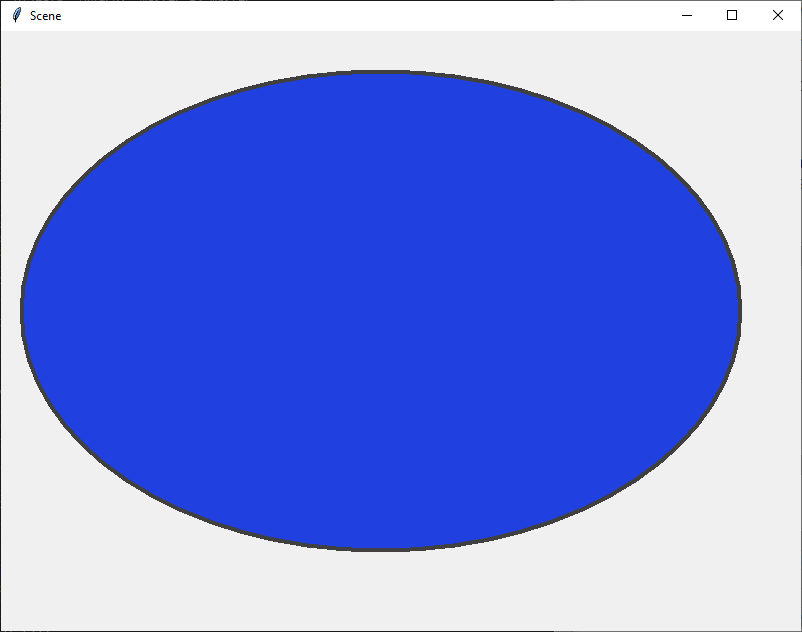
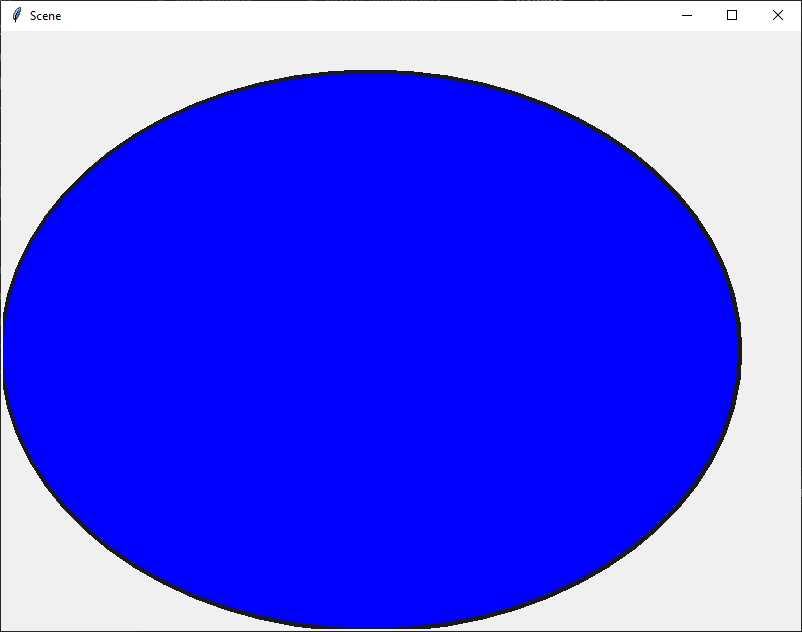
Clarify assignments for lesson 5.

diff --git a/docs/lesson05/prove.html b/docs/lesson05/prove.html
@@ -57,6 +57,9 @@
         <li><div>Reference for <a target="_blank"
         href="https://effbot.org/tkinterbook/canvas.htm">tkinter
         Canvas</a> widget</div></li>
+
+        <li><div><a target="_blank" href="colors.png">Chart of named
+        colors</a> in tkinter</div></li>
     </ul>
 
     <h2>Assignment</h2>
@@ -97,9 +100,11 @@ def main():
 
     # Create a Scene window. Creating an object
     # calls the __init__ function in the class.
-    Scene()
+    width = 800
+    height = 600
+    Scene(width, height)
 
-    root.geometry("800x600")
+    root.geometry(f"{width}x{height}")
     root.mainloop()
 
 
@@ -108,7 +113,7 @@ class Scene(Frame):
     to draw a somewhat realistic outdoor scene in the frame.
     """
 
-    def __init__(self):
+    def __init__(self, width, height):
         """Initialize a Scene object."""
 
         # Call __init__ in the parent class.
@@ -122,7 +127,7 @@ class Scene(Frame):
         canvas.pack(fill=BOTH, expand=1)
 
         # Call the draw_scene function.
-        draw_scene(canvas, 0, 0, 799, 599)
+        draw_scene(canvas, 0, 0, width-1, height-1)
 
 
 def draw_scene(canvas, scene_left, scene_top, scene_right, scene_bottom):
@@ -135,16 +140,16 @@ def draw_scene(canvas, scene_left, scene_top, scene_right, scene_bottom):
     param scene_right - right side of the region
     param scene_bottom - bottom of the region
 
-    The width and height of the region can be calculated like this:
+    If needed, the width and height of the
+    region can be calculated like this:
     scene_width = scene_right - scene_left + 1
     scene_height = scene_bottom - scene_top + 1
     """
-    canvas.create_oval(scene_left + 20, scene_top + 40,
-            scene_right - 60, scene_bottom - 80,
-            outline="#404040", width=4, fill="#2040e0")
-
     # Call your functions here, such as draw_sky, draw_ground,
     # draw_snowman, draw_tree, draw_shrub, etc.
+    canvas.create_oval(scene_left, scene_top + 40,
+            scene_right - 60, scene_bottom,
+            outline="gray10", width=4, fill="blue")
 
 
 # Define more functions here, like draw_sky, draw_ground,
@@ -161,16 +166,16 @@ main()</pre></div>
 
     <p><img src="oval.png" alt="A blue oval drawn by a Python program"></p>
 
-    <p>This oval was drawn by the code at lines 52 - 54. Delete lines
-    52 - 54 and begin writing your program. The purpose of this
-    assignment is to prove that you can write and call functions.
-    Therefore, your program must be divided into functions such as
-    <code>draw_sky</code>, <code>draw_cloud</code>,
+    <p>This oval was drawn by the code at lines&nbsp;57&ndash;59. Delete
+    lines&nbsp;57&ndash;59 and begin writing your program. The purpose
+    of this assignment is to prove that you can write and call
+    functions. Therefore, your program must be divided into functions
+    such as <code>draw_sky</code>, <code>draw_cloud</code>,
     <code>draw_ground</code>, <code>draw_bird</code>,
     <code>draw_grass_blade</code>, and <code>draw_insect</code>. The
     header for the <code>draw_scene</code> function, which is shown on
-    line 38 in the example code above, is a good example for the headers
-    of all your draw_* functions. For example, if you write a
+    line&nbsp;40 in the example code above, is a good example for the
+    headers of all your draw_* functions. For example, if you write a
     <code>draw_grass_blade</code> function in your program, you should
     write its header like this:</p>
 

diff --git a/docs/lesson05/teach.html b/docs/lesson05/teach.html
@@ -82,9 +82,11 @@
         <li><div>Calculates age, BMI, and BMR.</div></li>
     </ol>
 
-    <p>Use the following design to write your program:</p>
-<div class="pre"><pre class="python">
-# Import necessary modules.
+    <p>Use the following design to write your program. Write code for
+    each function that contains the keyword <code>pass</code>. Then
+    delete the keyword <code>pass</code>.</p>
+
+<div class="pre"><pre class="python"># Import necessary modules.
 import csv
 import math
 from datetime import date, datetime
@@ -92,19 +94,19 @@ from datetime import date, datetime
 
 def main():
     # Print this header:
-    # Gender,Age (years) Weight (kg),Height (cm),BMI,BMR
+    # Gender,Age (years),Weight (kg),Height (cm),BMI,BMR
 
     # Open the fitness.csv file for reading.
 
-    # Use the csv module to get a reader object.
+        # Use the csv module to get a reader object.
 
-    # Process each row in the csv file by doing the following:
-        # 1. Call the compute_age, kg_from_lb, cm_from_in,
-        #   body_mass_index, and basal_metabolic_rate
-        #   functions as necessary.
-        # 2. Print the gender, age in years, weight in
-        #   kilograms, height in centimeters, body mass
-        #   index, and basal metabolic rate.
+        # Process each row in the csv file by doing the following:
+            # 1. Call the compute_age, kg_from_lb, cm_from_in,
+            #    body_mass_index, and basal_metabolic_rate
+            #    functions as necessary.
+            # 2. Print the gender, age in years, weight in
+            #    kilograms, height in centimeters, body mass
+            #    index, and basal metabolic rate.
     pass
 
 
@@ -122,12 +124,16 @@ def compute_age(birth):
 
 
 def kg_from_lb(lb):
-    """Convert a mass in pounds to kilograms."""
+    """Convert a mass in US pounds to kilograms.
+    param lb: a mass in US pounds
+    """
     pass
 
 
 def cm_from_in(inch):
-    """Convert a length in inches to centimeters."""
+    """Convert a length in inches to centimeters.
+    param inch: a length in inches
+    """
     pass
 
 
@@ -186,15 +192,12 @@ def basal_metabolic_rate(gender, weight, height, age):
         you think would make your program better, easier for the user,
         more elegant, or more fun. Be creative.</div></li>
 
-        <li><div>Write a document string for each of these four
-        functions: <code>kg_from_lb</code>, <code>cm_from_in</code>,
-        <code>body_mass_index</code>, <code>basal_metabolic_rate</code>.
-        Use the document string in the compute_age function as an
-        example.</div></li>
-
         <li><div>Write comments above the lines of code in
         <code>main</code> that were difficult for you to
         understand.</div></li>
+
+        <li><div>Modify your program to print the height values in
+        meters instead of centimeters.</div></li>
     </ol>
 
     <h2>Sample Run</h2>

diff --git a/docs/lesson06/prove.html b/docs/lesson06/prove.html
@@ -73,6 +73,9 @@
         <li><div>Reference for <a target="_blank"
         href="https://effbot.org/tkinterbook/canvas.htm">tkinter
         Canvas</a> widget</div></li>
+
+        <li><div><a target="_blank" href="colors.png">Chart of named
+        colors</a> in tkinter</div></li>
     </ul>
 
     <h2>Testing Procedure</h2>

diff --git a/docs/lesson05/colors.py b/docs/lesson05/colors.py
@@ -1,0 +1,103 @@
+# Program modified from
+# http://stackoverflow.com/questions/4969543/colour-chart-for-tkinter-and-tix-using-python
+#
+from tkinter import Tk, E, W, Label
+
+COLOR_NAMES = [
+    'snow', 'ghost white', 'white smoke', 'gainsboro', 'floral white', 'old lace',
+    'linen', 'antique white', 'papaya whip', 'blanched almond', 'bisque', 'peach puff',
+    'navajo white', 'lemon chiffon', 'mint cream', 'azure', 'alice blue', 'lavender',
+    'lavender blush', 'misty rose', 'dark slate gray', 'dim gray', 'slate gray',
+    'light slate gray', 'gray', 'light grey', 'midnight blue', 'navy', 'cornflower blue', 'dark slate blue',
+    'slate blue', 'medium slate blue', 'light slate blue', 'medium blue', 'royal blue',  'blue',
+    'dodger blue', 'deep sky blue', 'sky blue', 'light sky blue', 'steel blue', 'light steel blue',
+    'light blue', 'powder blue', 'pale turquoise', 'dark turquoise', 'medium turquoise', 'turquoise',
+    'cyan', 'light cyan', 'cadet blue', 'medium aquamarine', 'aquamarine', 'dark green', 'dark olive green',
+    'dark sea green', 'sea green', 'medium sea green', 'light sea green', 'pale green', 'spring green',
+    'lawn green', 'medium spring green', 'green yellow', 'lime green', 'yellow green',
+    'forest green', 'olive drab', 'dark khaki', 'khaki', 'pale goldenrod', 'light goldenrod yellow',
+    'light yellow', 'yellow', 'gold', 'light goldenrod', 'goldenrod', 'dark goldenrod', 'rosy brown',
+    'indian red', 'saddle brown', 'sandy brown',
+    'dark salmon', 'salmon', 'light salmon', 'orange', 'dark orange',
+    'coral', 'light coral', 'tomato', 'orange red', 'red', 'hot pink', 'deep pink', 'pink', 'light pink',
+    'pale violet red', 'maroon', 'medium violet red', 'violet red',
+    'medium orchid', 'dark orchid', 'dark violet', 'blue violet', 'purple', 'medium purple',
+    'thistle', 'snow2', 'snow3',
+    'snow4', 'seashell2', 'seashell3', 'seashell4', 'AntiqueWhite1', 'AntiqueWhite2',
+    'AntiqueWhite3', 'AntiqueWhite4', 'bisque2', 'bisque3', 'bisque4', 'PeachPuff2',
+    'PeachPuff3', 'PeachPuff4', 'NavajoWhite2', 'NavajoWhite3', 'NavajoWhite4',
+    'LemonChiffon2', 'LemonChiffon3', 'LemonChiffon4', 'cornsilk2', 'cornsilk3',
+    'cornsilk4', 'ivory2', 'ivory3', 'ivory4', 'honeydew2', 'honeydew3', 'honeydew4',
+    'LavenderBlush2', 'LavenderBlush3', 'LavenderBlush4', 'MistyRose2', 'MistyRose3',
+    'MistyRose4', 'azure2', 'azure3', 'azure4', 'SlateBlue1', 'SlateBlue2', 'SlateBlue3',
+    'SlateBlue4', 'RoyalBlue1', 'RoyalBlue2', 'RoyalBlue3', 'RoyalBlue4', 'blue2', 'blue4',
+    'DodgerBlue2', 'DodgerBlue3', 'DodgerBlue4', 'SteelBlue1', 'SteelBlue2',
+    'SteelBlue3', 'SteelBlue4', 'DeepSkyBlue2', 'DeepSkyBlue3', 'DeepSkyBlue4',
+    'SkyBlue1', 'SkyBlue2', 'SkyBlue3', 'SkyBlue4', 'LightSkyBlue1', 'LightSkyBlue2',
+    'LightSkyBlue3', 'LightSkyBlue4', 'SlateGray1', 'SlateGray2', 'SlateGray3',
+    'SlateGray4', 'LightSteelBlue1', 'LightSteelBlue2', 'LightSteelBlue3',
+    'LightSteelBlue4', 'LightBlue1', 'LightBlue2', 'LightBlue3', 'LightBlue4',
+    'LightCyan2', 'LightCyan3', 'LightCyan4', 'PaleTurquoise1', 'PaleTurquoise2',
+    'PaleTurquoise3', 'PaleTurquoise4', 'CadetBlue1', 'CadetBlue2', 'CadetBlue3',
+    'CadetBlue4', 'turquoise1', 'turquoise2', 'turquoise3', 'turquoise4', 'cyan2', 'cyan3',
+    'cyan4', 'DarkSlateGray1', 'DarkSlateGray2', 'DarkSlateGray3', 'DarkSlateGray4',
+    'aquamarine2', 'aquamarine4', 'DarkSeaGreen1', 'DarkSeaGreen2', 'DarkSeaGreen3',
+    'DarkSeaGreen4', 'SeaGreen1', 'SeaGreen2', 'SeaGreen3', 'PaleGreen1', 'PaleGreen2',
+    'PaleGreen3', 'PaleGreen4', 'SpringGreen2', 'SpringGreen3', 'SpringGreen4',
+    'green2', 'green3', 'green4', 'chartreuse2', 'chartreuse3', 'chartreuse4',
+    'OliveDrab1', 'OliveDrab2', 'OliveDrab4', 'DarkOliveGreen1', 'DarkOliveGreen2',
+    'DarkOliveGreen3', 'DarkOliveGreen4', 'khaki1', 'khaki2', 'khaki3', 'khaki4',
+    'LightGoldenrod1', 'LightGoldenrod2', 'LightGoldenrod3', 'LightGoldenrod4',
+    'LightYellow2', 'LightYellow3', 'LightYellow4', 'yellow2', 'yellow3', 'yellow4',
+    'gold2', 'gold3', 'gold4', 'goldenrod1', 'goldenrod2', 'goldenrod3', 'goldenrod4',
+    'DarkGoldenrod1', 'DarkGoldenrod2', 'DarkGoldenrod3', 'DarkGoldenrod4',
+    'RosyBrown1', 'RosyBrown2', 'RosyBrown3', 'RosyBrown4', 'IndianRed1', 'IndianRed2',
+    'IndianRed3', 'IndianRed4', 'sienna1', 'sienna2', 'sienna3', 'sienna4', 'burlywood1',
+    'burlywood2', 'burlywood3', 'burlywood4', 'wheat1', 'wheat2', 'wheat3', 'wheat4', 'tan1',
+    'tan2', 'tan4', 'chocolate1', 'chocolate2', 'chocolate3', 'firebrick1', 'firebrick2',
+    'firebrick3', 'firebrick4', 'brown1', 'brown2', 'brown3', 'brown4', 'salmon1', 'salmon2',
+    'salmon3', 'salmon4', 'LightSalmon2', 'LightSalmon3', 'LightSalmon4', 'orange2',
+    'orange3', 'orange4', 'DarkOrange1', 'DarkOrange2', 'DarkOrange3', 'DarkOrange4',
+    'coral1', 'coral2', 'coral3', 'coral4', 'tomato2', 'tomato3', 'tomato4', 'OrangeRed2',
+    'OrangeRed3', 'OrangeRed4', 'red2', 'red3', 'red4', 'DeepPink2', 'DeepPink3', 'DeepPink4',
+    'HotPink1', 'HotPink2', 'HotPink3', 'HotPink4', 'pink1', 'pink2', 'pink3', 'pink4',
+    'LightPink1', 'LightPink2', 'LightPink3', 'LightPink4', 'PaleVioletRed1',
+    'PaleVioletRed2', 'PaleVioletRed3', 'PaleVioletRed4', 'maroon1', 'maroon2',
+    'maroon3', 'maroon4', 'VioletRed1', 'VioletRed2', 'VioletRed3', 'VioletRed4',
+    'magenta2', 'magenta3', 'magenta4', 'orchid1', 'orchid2', 'orchid3', 'orchid4', 'plum1',
+    'plum2', 'plum3', 'plum4', 'MediumOrchid1', 'MediumOrchid2', 'MediumOrchid3',
+    'MediumOrchid4', 'DarkOrchid1', 'DarkOrchid2', 'DarkOrchid3', 'DarkOrchid4',
+    'purple1', 'purple2', 'purple3', 'purple4', 'MediumPurple1', 'MediumPurple2',
+    'MediumPurple3', 'MediumPurple4', 'thistle1', 'thistle2', 'thistle3', 'thistle4',
+    'gray1', 'gray2', 'gray3', 'gray4', 'gray5', 'gray6', 'gray7', 'gray8', 'gray9', 'gray10',
+    'gray11', 'gray12', 'gray13', 'gray14', 'gray15', 'gray16', 'gray17', 'gray18', 'gray19',
+    'gray20', 'gray21', 'gray22', 'gray23', 'gray24', 'gray25', 'gray26', 'gray27', 'gray28',
+    'gray29', 'gray30', 'gray31', 'gray32', 'gray33', 'gray34', 'gray35', 'gray36', 'gray37',
+    'gray38', 'gray39', 'gray40', 'gray42', 'gray43', 'gray44', 'gray45', 'gray46', 'gray47',
+    'gray48', 'gray49', 'gray50', 'gray51', 'gray52', 'gray53', 'gray54', 'gray55', 'gray56',
+    'gray57', 'gray58', 'gray59', 'gray60', 'gray61', 'gray62', 'gray63', 'gray64', 'gray65',
+    'gray66', 'gray67', 'gray68', 'gray69', 'gray70', 'gray71', 'gray72', 'gray73', 'gray74',
+    'gray75', 'gray76', 'gray77', 'gray78', 'gray79', 'gray80', 'gray81', 'gray82', 'gray83',
+    'gray84', 'gray85', 'gray86', 'gray87', 'gray88', 'gray89', 'gray90', 'gray91', 'gray92',
+    'gray93', 'gray94', 'gray95', 'gray97', 'gray98', 'gray99']
+
+MAX_ROWS = 37
+FONT_SIZE = 10  # (pixels)
+
+root = Tk()
+root.title("Named Color Chart")
+row = 0
+col = 0
+for color_name in COLOR_NAMES:
+    rgb = root.winfo_rgb(color_name)
+    intens = rgb[0] * 0.2989 + rgb[1] * 0.587 + rgb[2] * 0.1141
+    fgcolor = 'black' if intens > 32767 else 'white'
+    elem = Label(root, text=color_name,
+            bg=color_name, fg=fgcolor, font=(None, -FONT_SIZE))
+    elem.grid(row=row, column=col, sticky=E+W)
+    row += 1
+    if (row == MAX_ROWS):
+        row = 0
+        col += 1
+
+root.mainloop()

diff --git a/docs/lesson05/teach_solution.py b/docs/lesson05/teach_solution.py
@@ -22,33 +22,32 @@ def main():
         # Process each row in the CSV file.
         for row in reader:
 
-                # From the current row of the CSV file,
-                # retrieve a person's gender from column 0.
-                gender = row[0]
+            # From the current row of the CSV file,
+            # retrieve a person's gender from column 0.
+            gender = row[0]
 
-                # From the current row of the CSV file, retrieve a
-                # person's birthdate as a string. Call the compute_age
-                # function which convert the string to a date and then
-                # compute and return a person's age in years.
-                years = compute_age(row[1])
+            # From the current row of the CSV file, retrieve a
+            # person's birthdate as a string. Call the compute_age
+            # function which convert the string to a date and then
+            # compute and return a person's age in years.
+            years = compute_age(row[1])
 
-                # From the current row of the CSV file, retrieve a
-                # person's weight in pounds and height in inches. Then
-                # convert the person's weight from pounds to kilograms
-                # and their height from inches to centimeters.
-                pounds = float(row[2])
-                inches = float(row[3])
-                kg = round(kg_from_lb(pounds), 2)
-                cm = round(cm_from_in(inches), 1)
+            # From the current row of the CSV file, retrieve a
+            # person's weight in pounds and height in inches. Then
+            # convert the person's weight from pounds to kilograms
+            # and their height from inches to centimeters.
+            pounds = float(row[2])
+            inches = float(row[3])
+            kg = round(kg_from_lb(pounds), 2)
+            cm = round(cm_from_in(inches), 1)
 
-                # For the current row, compute the person's
-                # body mass index and basal metabolic rate.
-                bmi = round(body_mass_index(kg, cm), 1)
-                bmr = round(basal_metabolic_rate(gender, kg, cm, years), 1)
+            # For the current row, compute the person's
+            # body mass index and basal metabolic rate.
+            bmi = round(body_mass_index(kg, cm), 1)
+            bmr = round(basal_metabolic_rate(gender, kg, cm, years), 1)
 
-                # Display the results for the
-                # current row in the CSV file.
-                print(gender, years, kg, cm, bmi, bmr, sep=",")
+            # Display the results for the current row in the CSV file.
+            print(gender, years, kg, cm, bmi, bmr, sep=",")
 
 
 def compute_age(birth):
@@ -65,12 +64,17 @@ def compute_age(birth):
 
 
 def kg_from_lb(lb):
-    """Convert a mass in pounds to kilograms."""
+    """Convert a mass in pounds to kilograms.
+    param lb: a mass in US pounds
+    """
     kg = lb * 0.45359237
     return kg
 
+
 def cm_from_in(inch):
-    """Convert a length in inches to centimeters."""
+    """Convert a length in inches to centimeters.
+    param inch: a length in inches
+    """
     cm = inch * 2.54
     return cm
 
